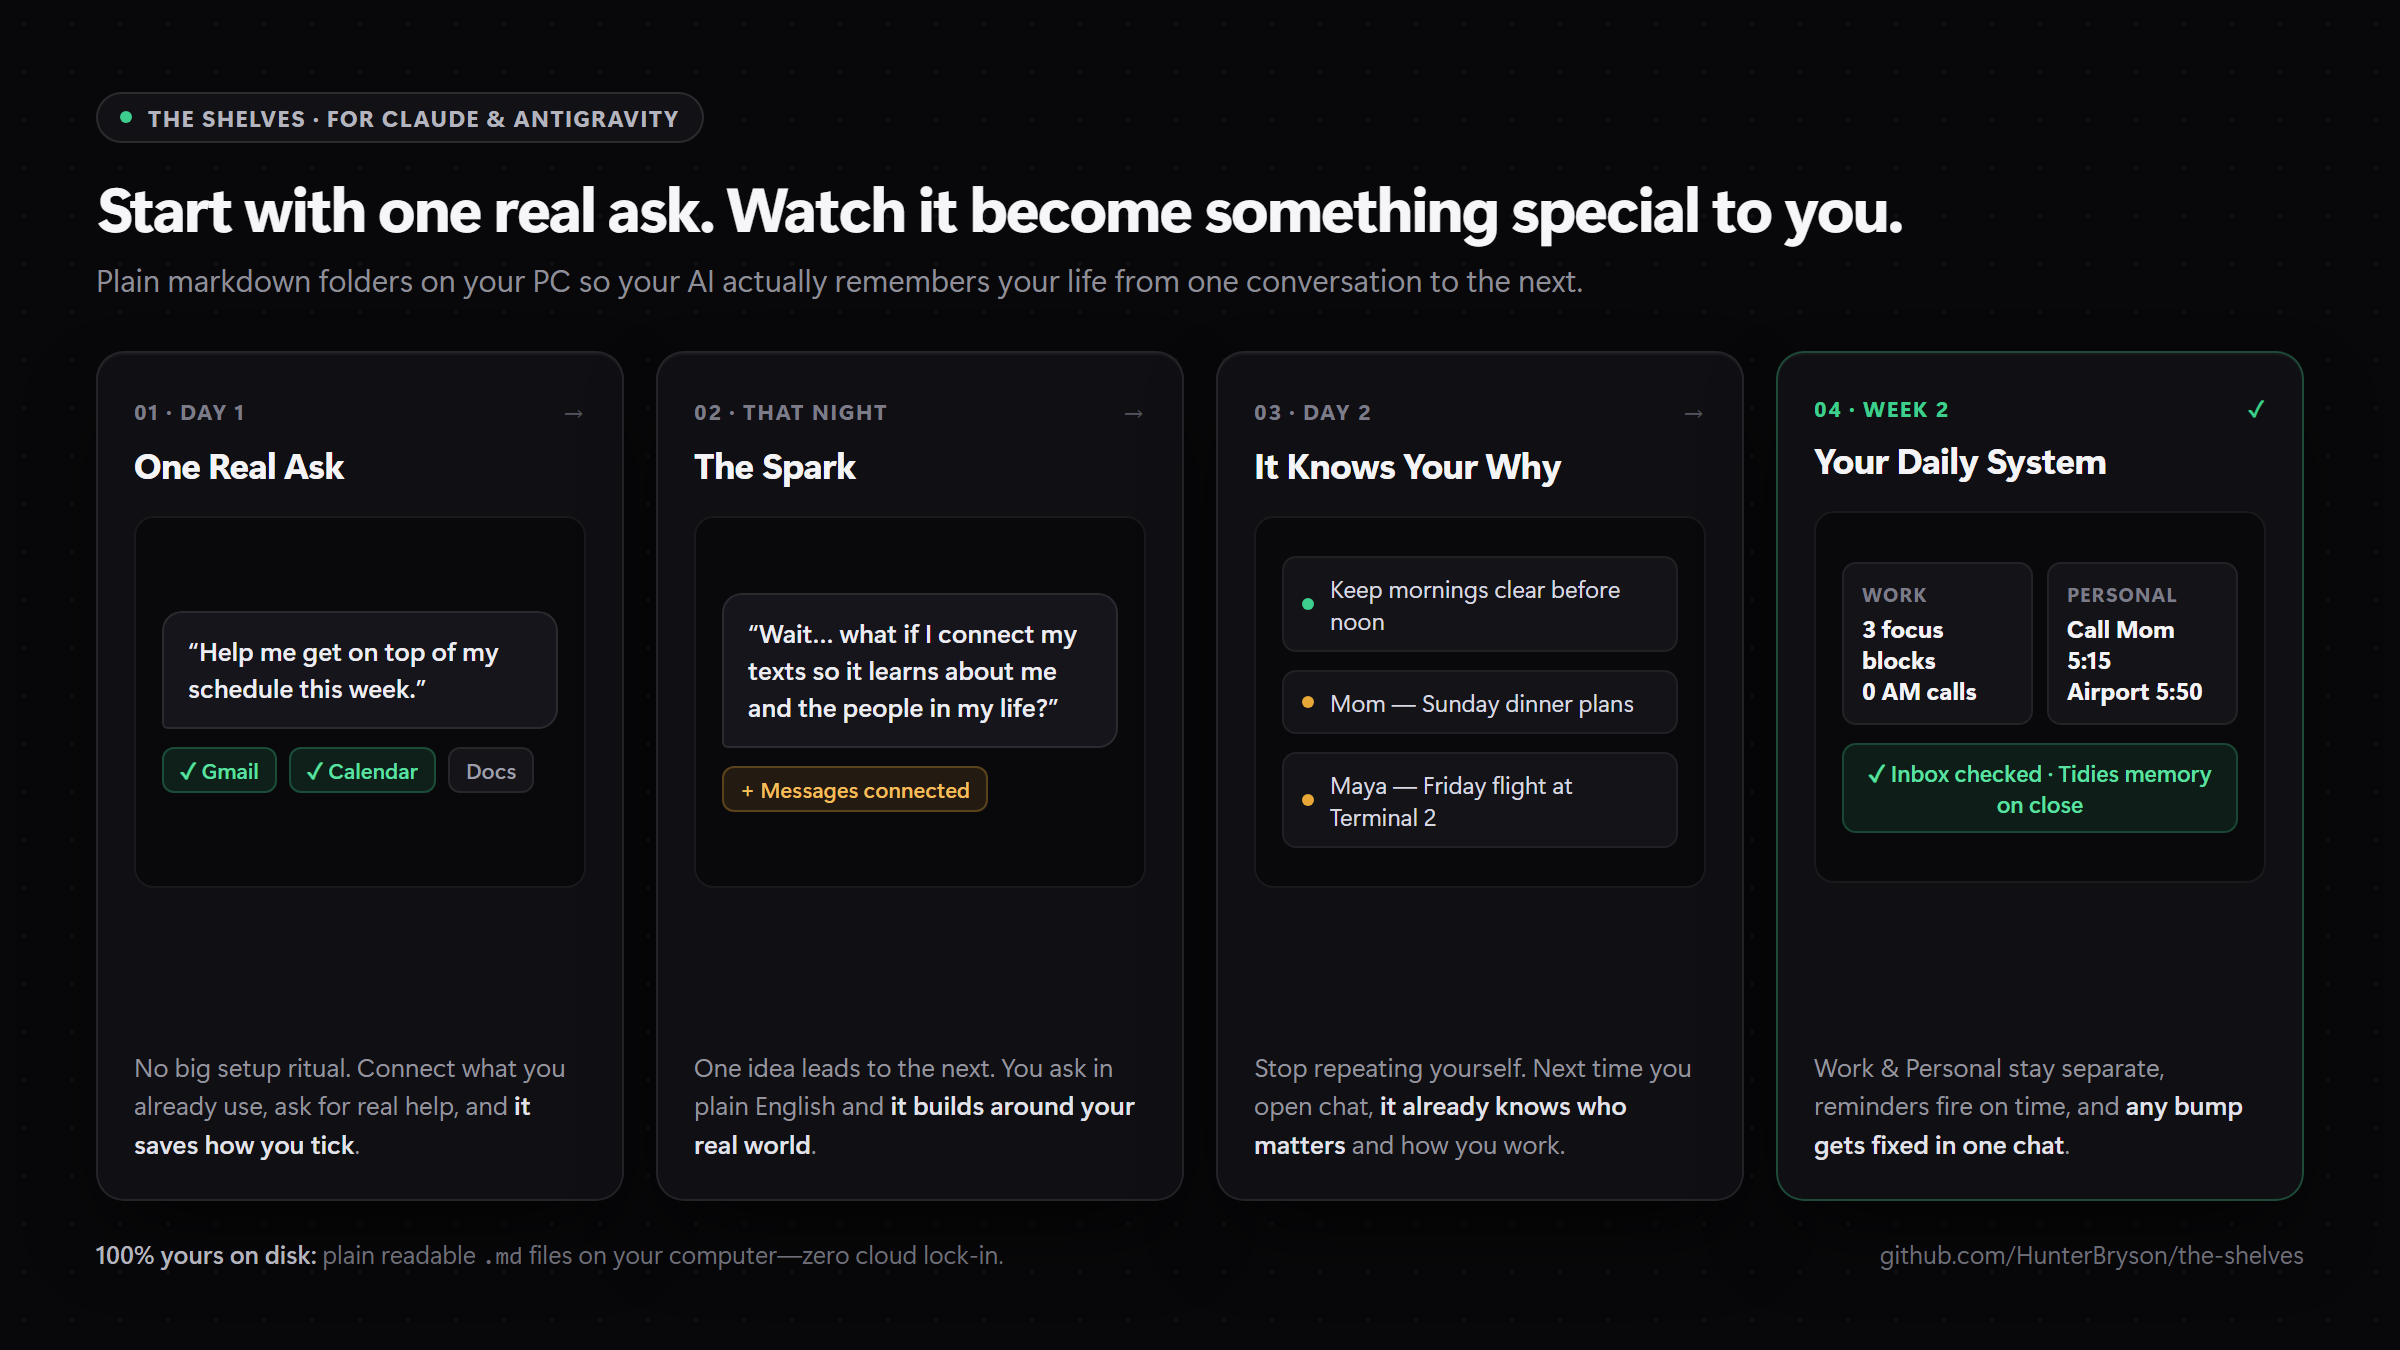
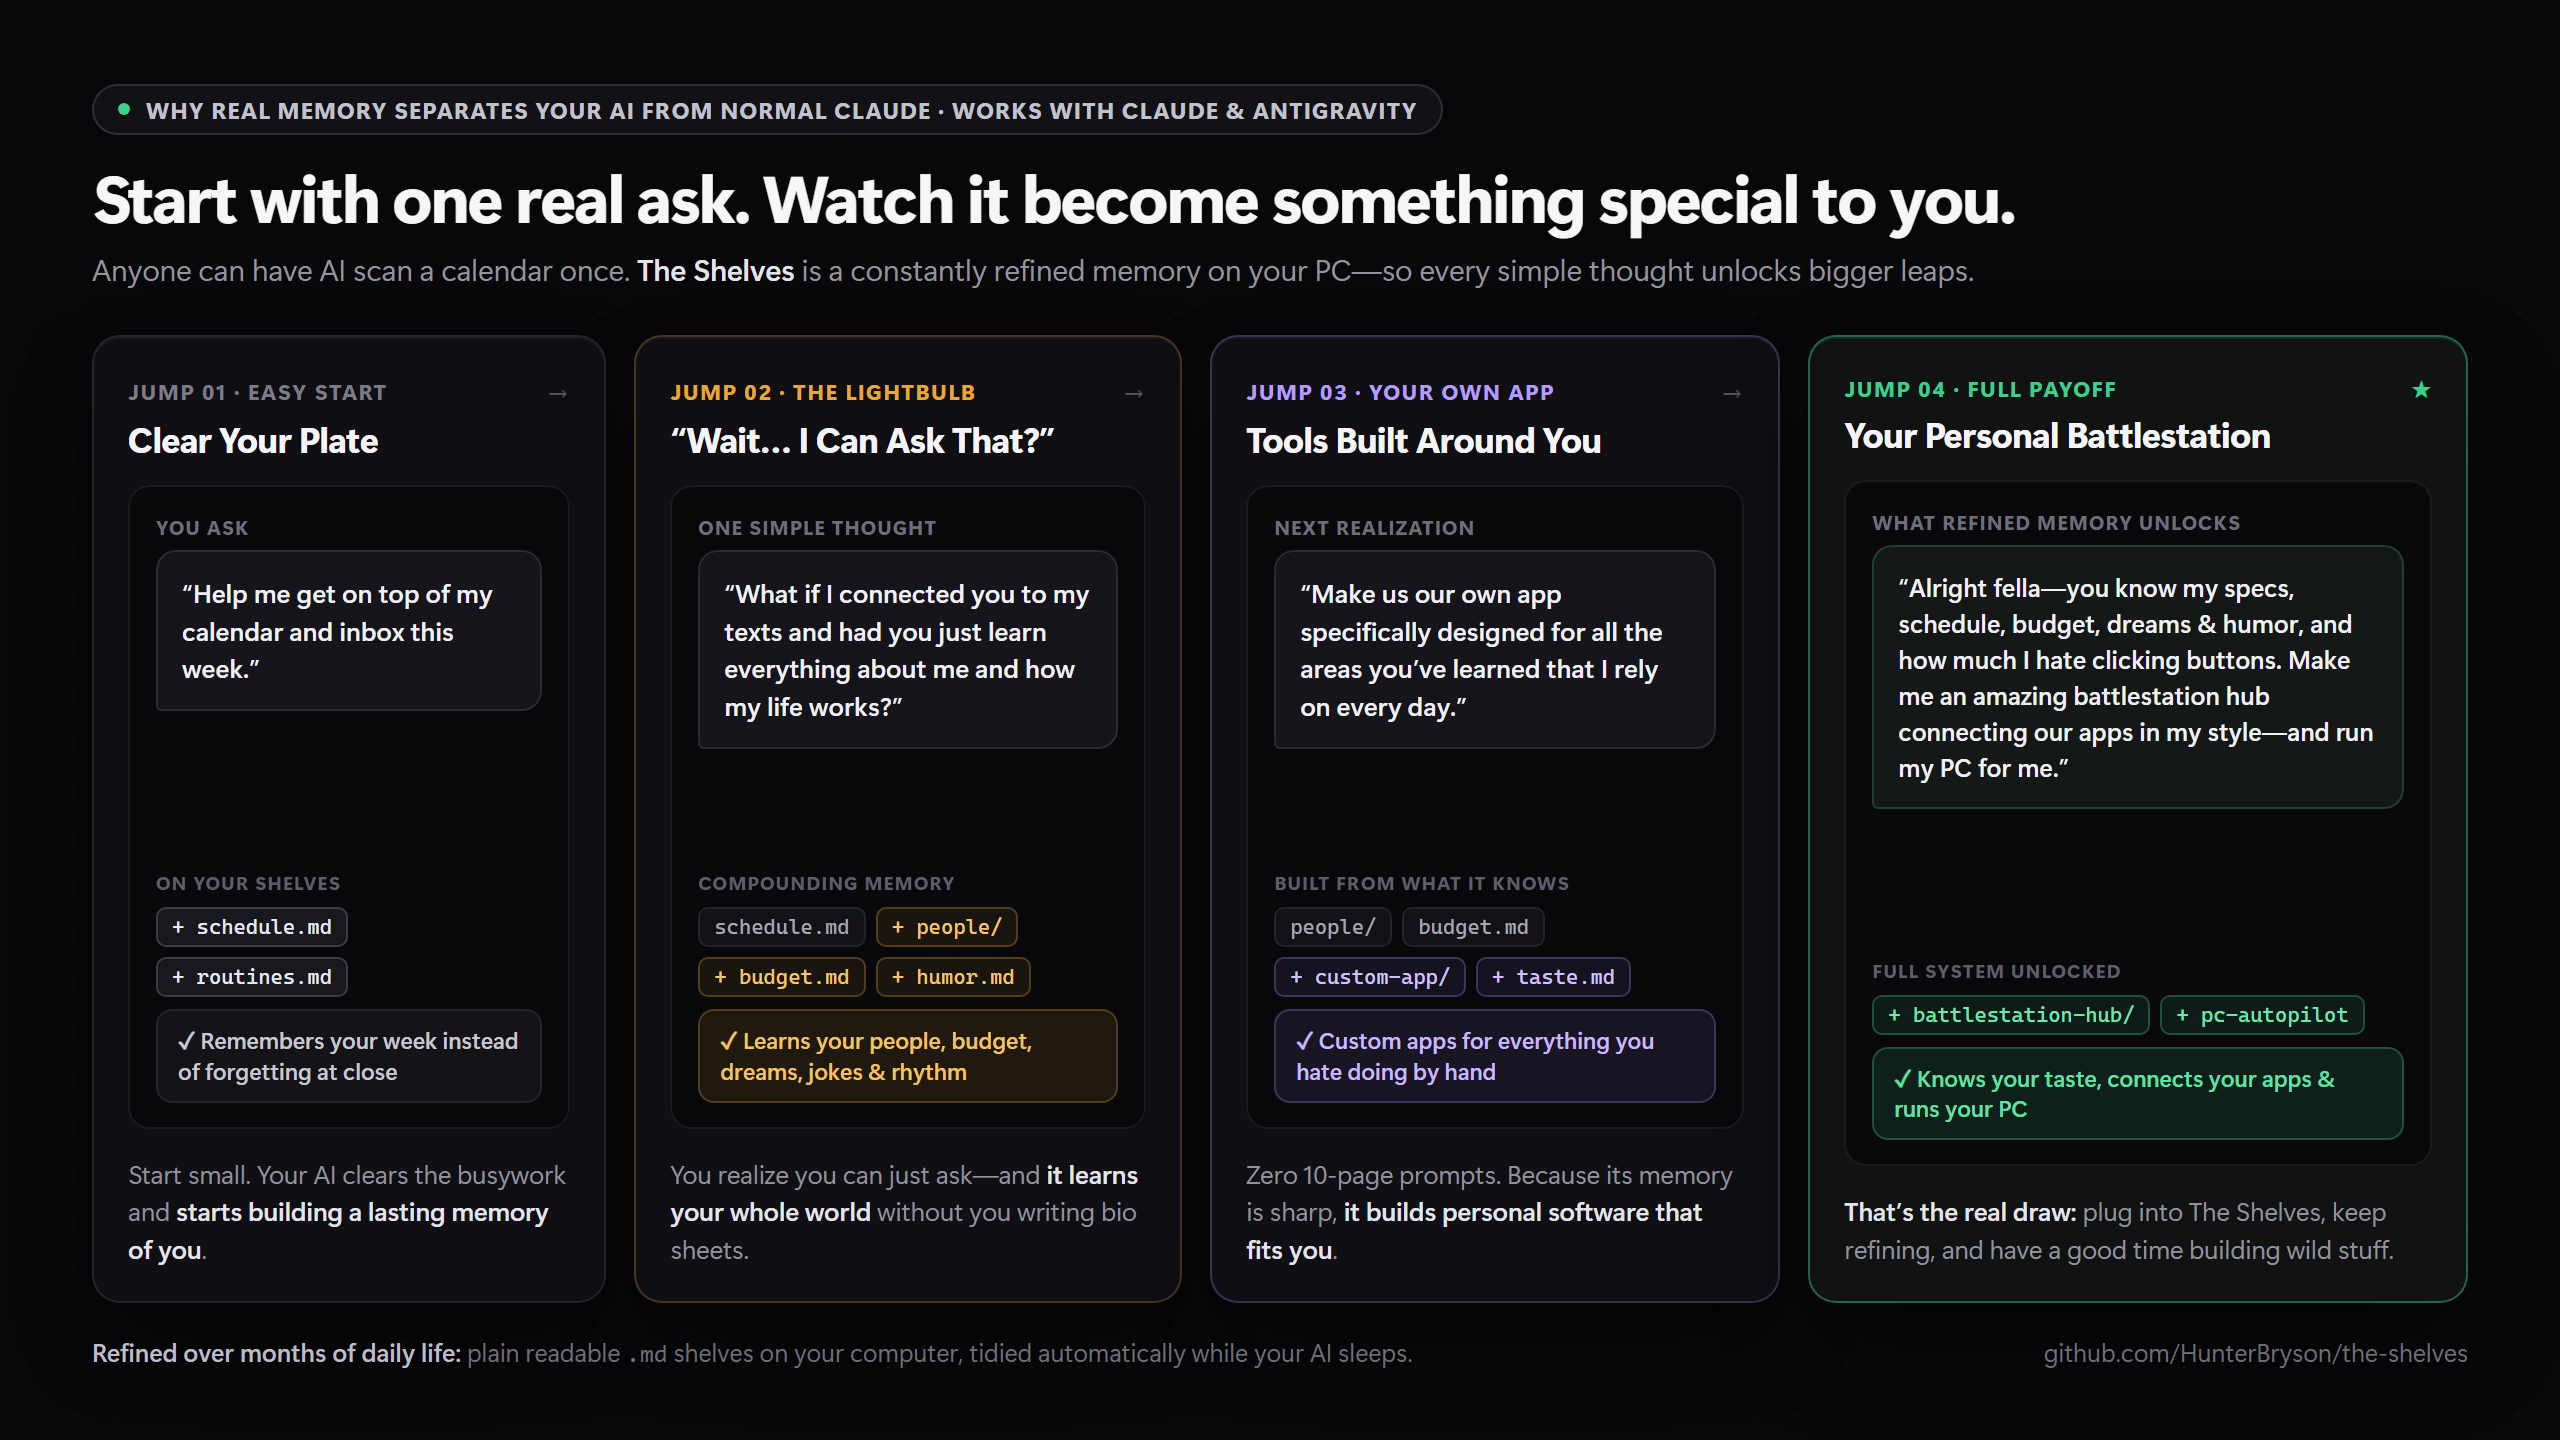
Show the 4 compounding memory jumps in Shelves hero and README

diff --git a/README.md b/README.md
@@ -8,18 +8,20 @@ A persistent memory folder for **Claude or Antigravity**—your life, your sched
 
 You don't organize anything. Your AI files what matters as you talk and keeps its shelves tidy behind the scenes.
 
-## How a normal week unfolds
+## Why memory changes what you can ask for
 
-- **Day 1 — One real ask:** Maybe you're not sure where to start. Connect Gmail, Calendar, or Docs and ask: *"Help me get on top of my schedule."* Your AI checks what's actually coming up, organizes your week, and starts learning how your days work.
-- **The Spark:** Halfway through, it clicks: *"Wait… what if I ask it to connect to my text messages or messaging app so it can learn about me and the people in my life for me?"* Once it can read the real threads you choose, you stop explaining context.
-- **Day 2 — It learns the *why*:** It notices why you protect morning focus blocks, who gets an immediate reply, and what keeps slipping—going way past static prompt skills.
-- **Week 2 — Just open chat and crush it:** Separate **Work** and **Personal** systems, built-in reminders, your inbox checked automatically when a chat opens, sleep housekeeping when you close out, and any rough bump fixed in one conversation.
+Anyone can have a normal AI scan their calendar or inbox once—and forget everything the moment the window closes. **The Shelves** is a constantly refined memory system, which means each simple ask unlocks a bigger jump:
+
+- **Jump 1 — One easy win:** Connect Gmail or Calendar and ask: *"Help me get on top of my schedule."* Your AI handles the busywork and starts saving how your days actually work.
+- **Jump 2 — The lightbulb:** Halfway through, a simple thought hits: *"What if I connected it to my texts and had it just learn everything about me and how my life works?"* You realize you can ask simple, wild things—and it learns your people, your rhythm, your budget, your dreams, and your sense of humor.
+- **Jump 3 — Your own custom apps:** Once you lean on it for everything you don't have time for or hate doing, the next jump is natural: *"Make us our own app specifically designed for all the areas you've learned and that I rely on now."*
+- **Jump 4 — Your personal battlestation:** *"Alright fella—you know my specs, my schedule, my budget, my dreams, and my humor, and how much I hate clicking too many buttons. Make me an amazing battlestation hub that connects all our apps together using everything you've learned about what I like, and run my computer for me."*
 
 ## How all the builds fit together
 
-![Four Wave-1 builds plugged into each other](docs/plugin-map.png)
+![Start with memory, add visual tools whenever you want](docs/plugin-map.png)
 
-Start with **the shelves**—or any single repo—and add the others whenever you want. `node tools/fit.mjs` wires them together automatically across **Claude and Antigravity**.
+Start with **the shelves** on its own—and snap on any visual tool whenever you want across **Claude and Antigravity**.
 
 ## What you need
 - **Your own computer** (Windows or Mac). The memory is a folder on that computer, so it stays yours and survives across chats. (Hosted web or phone chats forget everything when closed.)
